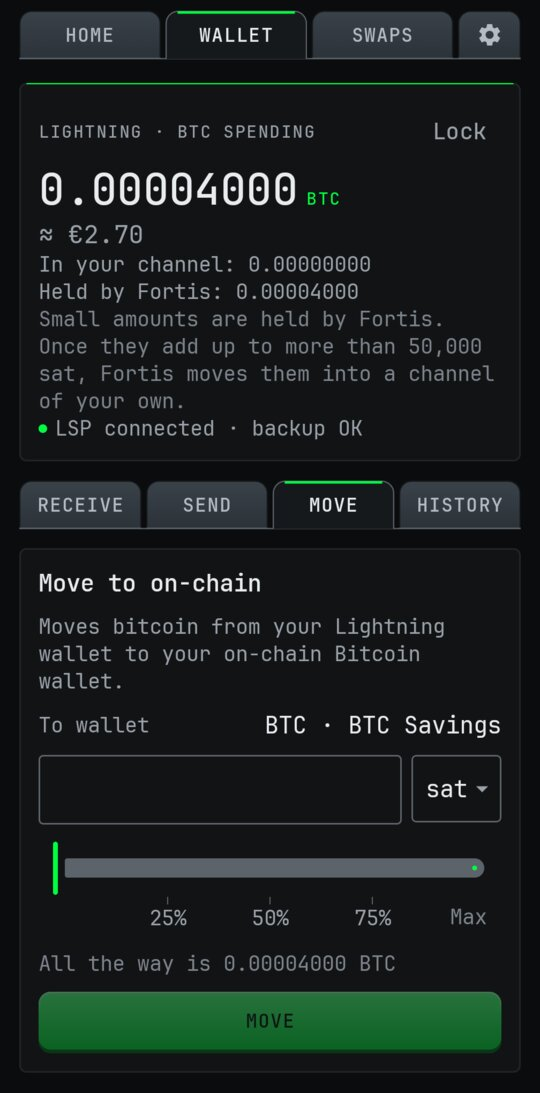
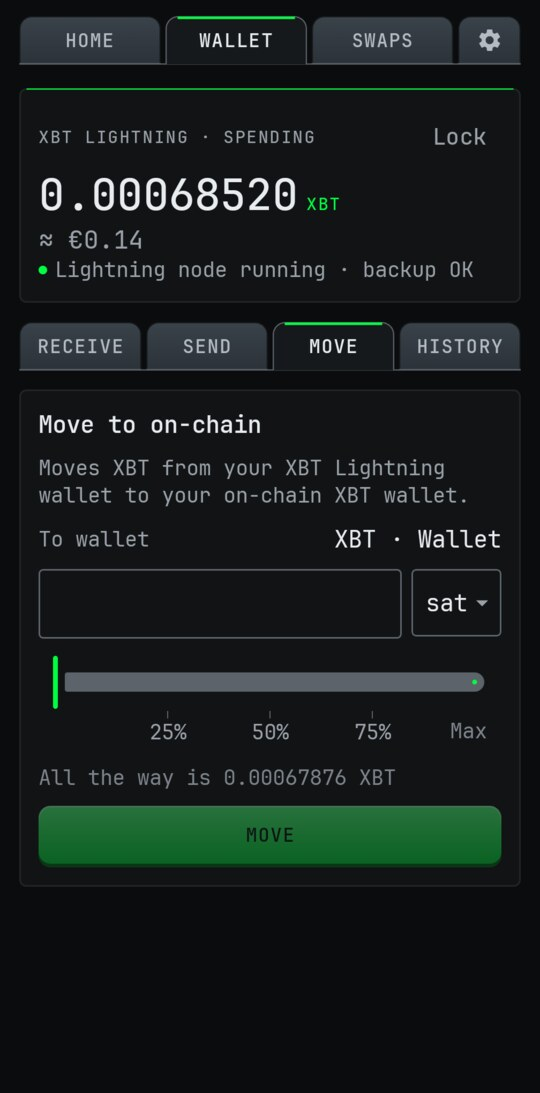
site: XBT Lightning copy and new screenshots

diff --git a/site/index.html b/site/index.html
@@ -6,7 +6,7 @@
 <title>Fortis Tech Labs — tools for Bitcoin self-custody</title>
 <meta name="description" content="Fortis Tech Labs builds self-custody software for Bitcoin. Our first app is Fortis Wallet, for Bitcoin XBT, Bitcoin BTC and Lightning.">
 <meta property="og:title" content="Fortis Wallet — non-custodial Bitcoin XBT and BTC">
-<meta property="og:description" content="A wallet for Bitcoin XBT, BTC and Lightning, with your keys on your phone, locked with your fingerprint. Swap BTC ↔ XBT person to person. Android, open source.">
+<meta property="og:description" content="A wallet for Bitcoin XBT, BTC and Lightning on both chains, with your keys on your phone, locked with your fingerprint. Swap BTC ↔ XBT person to person. Android, open source.">
 <meta property="og:type" content="website">
 <meta property="og:url" content="https://fortistechlabs.com/">
 <meta property="og:image" content="https://fortistechlabs.com/og-wallet-2026-10.png">
@@ -15,7 +15,7 @@
 <meta property="og:image:alt" content="fortis: non-custodial wallet for Bitcoin XBT and BTC, locked with your fingerprint">
 <meta name="twitter:card" content="summary_large_image">
 <meta name="twitter:title" content="Fortis Wallet — non-custodial Bitcoin XBT and BTC">
-<meta name="twitter:description" content="A wallet for Bitcoin XBT, BTC and Lightning, with your keys on your phone, locked with your fingerprint. Swap BTC ↔ XBT person to person. Android, open source.">
+<meta name="twitter:description" content="A wallet for Bitcoin XBT, BTC and Lightning on both chains, with your keys on your phone, locked with your fingerprint. Swap BTC ↔ XBT person to person. Android, open source.">
 <meta name="twitter:image" content="https://fortistechlabs.com/og-wallet-2026-10.png">
 <meta name="twitter:image:alt" content="fortis: non-custodial wallet for Bitcoin XBT and BTC, locked with your fingerprint">
 <link rel="icon" href="/icon.svg">
@@ -54,7 +54,7 @@
       <div>
         <h3>Fortis Wallet</h3>
         <p class="kicker">Android 8+ · direct download &amp; Obtainium</p>
-        <p class="dim">A mobile wallet for Bitcoin XBT, Bitcoin BTC and Lightning, locked with your fingerprint. Your recovery phrase is generated on your phone, encrypted there, and never leaves it.</p>
+        <p class="dim">A mobile wallet for Bitcoin XBT, Bitcoin BTC and Lightning on both chains, locked with your fingerprint. Your recovery phrase is generated on your phone, encrypted there, and never leaves it.</p>
         <ul>
           <li><strong>Locked with your fingerprint</strong> (or face, or device PIN): the key that opens the app is held in your phone's secure hardware and is released only when you unlock — one unlock opens every wallet</li>
           <li><strong>Locks itself</strong> a minute after you leave it, and clears your keys from memory; swaps carry on in the background</li>
@@ -66,7 +66,7 @@
           <li>Send &amp; receive with QR codes, a built-in camera scanner, or paste</li>
           <li>Fee presets or a custom sat/vB rate; "take the fees out of this amount"; sweep a whole balance</li>
           <li>History with a tap-through to a block explorer; approximate value in USD, EUR or 28 other currencies</li>
-          <li><strong>Lightning</strong> as a wallet of its own (<a href="/lightning">how it works</a>): pay invoices, Lightning addresses, LNURL and BOLT12; get paid while the app is closed; move sats on-chain ⇄ Lightning; a history that itemises every fee</li>
+          <li><strong>Lightning</strong> for both coins, each as a wallet of its own: <strong>BTC Lightning</strong> and <strong>XBT Lightning</strong> (<a href="/lightning">how it works</a>). Pay invoices, Lightning addresses, LNURL and BOLT12; get paid while the app is closed; move sats on-chain ⇄ Lightning; a history that itemises every fee</li>
           <li><strong>Help &amp; support</strong> in Settings, and a <em>Send to support</em> button on every error</li>
           <li>Swap BTC ↔ XBT with other people — atomic and non-custodial (<a href="/swaps">how swaps work</a>)</li>
           <li>A 1% fee (min 400&nbsp;sat) funds the backend — added as a transaction output, shown before you sign</li>
@@ -104,10 +104,10 @@
         </details>
       </div>
       <div class="shots">
-        <img src="/img/android-home.jpg" alt="Fortis Wallet home: BTC, Lightning and XBT wallets" loading="lazy" width="540" height="1093">
-        <img src="/img/android-receive.jpg" alt="Lightning wallet: receive with an invoice QR code" loading="lazy" width="540" height="1093">
-        <img src="/img/android-history.jpg" alt="Lightning wallet: ledger history with the balance after each entry" loading="lazy" width="540" height="1093">
-        <img src="/img/android-move.jpg" alt="Lightning wallet: move to an on-chain BTC wallet" loading="lazy" width="540" height="1093">
+        <img src="/img/android-home.jpg" alt="Fortis Wallet home: an XBT Lightning wallet and an on-chain XBT wallet" loading="lazy" width="540" height="1093">
+        <img src="/img/android-receive.jpg" alt="XBT Lightning wallet: receive with an invoice, or a reusable BOLT12 address" loading="lazy" width="540" height="1093">
+        <img src="/img/android-history.jpg" alt="XBT Lightning wallet: ledger history with the balance after each entry" loading="lazy" width="540" height="1093">
+        <img src="/img/android-move.jpg" alt="XBT Lightning wallet: move to an on-chain XBT wallet" loading="lazy" width="540" height="1093">
       </div>
     </div>
 
@@ -166,7 +166,7 @@
       </div>
       <div class="feature">
         <h3>Lightning you can reconcile</h3>
-        <p>Your Lightning node runs on your phone, with keys from a phrase that never leaves it. The history is a ledger: every payment, move and fee (network, transfer, routing), with the balance after each, so every sat adds up. <a href="/lightning">How Lightning works →</a></p>
+        <p>Your Lightning node runs on your phone, with keys from a phrase that never leaves it. The history is a ledger: every payment, move and fee (network, transfer, routing), with the balance after each, so every sat adds up. It works on both chains: BTC Lightning, and XBT Lightning, which is new and still in beta. <a href="/lightning">How Lightning works →</a></p>
       </div>
       <div class="feature">
         <h3>Made for Bitcoin XBT</h3>

diff --git a/site/lightning.html b/site/lightning.html
@@ -33,14 +33,14 @@
   <div class="wrap">
     <div class="eyebrow">Fortis Wallet · Lightning (beta) · Android</div>
     <h1>Instant Bitcoin payments, keys on your phone</h1>
-    <p>Send and receive Bitcoin in seconds over the Lightning Network. Your phone runs its own Lightning node, with keys derived from a recovery phrase that never leaves it. Fortis opens the channel and relays payments, but can't spend what's in your channel.</p>
+    <p>Send and receive Bitcoin (BTC) and Bitcoin XBT in seconds over the Lightning Network. Your phone runs its own Lightning node, with keys derived from a recovery phrase that never leaves it. Fortis opens the channel and relays payments, but can't spend what's in your channel.</p>
   </div>
 </header>
 
 <section>
   <div class="wrap">
     <h2>How it works</h2>
-    <p class="lead">Lightning is a wallet of its own. On Home, tap <strong>Add wallet → Lightning</strong>. It gets its own recovery phrase, separate from your BTC wallets, so your on-chain coins and your Lightning channel never share keys.</p>
+    <p class="lead">Lightning is a wallet of its own, one for each coin: <strong>BTC Lightning</strong> and <strong>XBT Lightning</strong>. On Home, tap <strong>Add wallet → Lightning</strong> and choose BTC or XBT. You can have one of each. Every Lightning wallet gets its own recovery phrase, separate from your on-chain wallets and from the other Lightning wallet, so your coins and your channels never share keys.</p>
 
     <dl class="facts">
       <div>
@@ -79,6 +79,32 @@
   </div>
 </section>
 
+<section id="xbt">
+  <div class="wrap">
+    <h2>XBT Lightning</h2>
+    <p class="lead">Lightning for Bitcoin XBT works the same way as BTC Lightning, on its own network. It is new, and the XBT Lightning network is still small.</p>
+    <dl class="facts">
+      <div>
+        <dt>Separate from BTC</dt>
+        <dd>XBT Lightning has its own node key, its own backup and its own channel with the Fortis XBT provider. A BTC Lightning invoice or offer can't be paid from it, and the app says so instead of sending anything.</dd>
+      </div>
+      <div>
+        <dt>Funding it takes a few blocks</dt>
+        <dd>Move XBT in from an on-chain wallet with the <strong>Move</strong> tab, or receive over Lightning. Opening a channel needs several block confirmations, which on XBT can take an hour or more. The wallet shows what it is waiting for, for example "Channel opening: waiting for confirmation 2 of 6". Your coins are yours throughout, and if a channel's opening transaction never reaches the network the app notices, cancels it and returns your funds to your on-chain wallet.</dd>
+      </div>
+      <div>
+        <dt>What it costs and how much</dt>
+        <dd>The provider currently opens a channel for you for 1% of the payment (minimum 1,000&nbsp;sat), for payments from 51,000 up to 250,000&nbsp;sat. As on BTC, smaller payments are held by Fortis on your balance (up to 50,000&nbsp;sat each) until they are worth a channel of your own.</dd>
+      </div>
+      <div>
+        <dt>Paying people</dt>
+        <dd>You can pay XBT invoices and LNURL-pay codes, and BOLT&nbsp;12 offers and Lightning addresses where the person or service you pay supports XBT. An address that hands out BTC invoices is refused, safely.</dd>
+      </div>
+    </dl>
+    <p class="warn" style="font-size:14px; margin-top:26px">XBT Lightning is early. Moving funds in, opening a channel and paying invoices and LNURL codes from it are tested and work; BOLT&nbsp;12 offers are not yet. Fewer nodes and services support XBT, so fewer people can pay you than on BTC Lightning. Start with small amounts.</p>
+  </div>
+</section>
+
 <section id="fortis-balance">
   <div class="wrap">
     <h2>The Fortis balance: what we hold for you</h2>
@@ -111,7 +137,7 @@
         <dd>The LSP sees your node's ID and the payments that pass through it. The <a href="/privacy">privacy policy</a> lists everything it sees and stores.</dd>
       </div>
     </dl>
-    <p class="warn" style="font-size:14px; margin-top:26px">Lightning is in beta: a payment that opens your channel can be up to 100,000&nbsp;sat, and a channel you fund yourself up to 1,000,000&nbsp;sat. Start with small amounts.</p>
+    <p class="warn" style="font-size:14px; margin-top:26px">Lightning is in beta: on BTC a payment that opens your channel can be up to 100,000&nbsp;sat, and a channel you fund yourself up to 1,000,000&nbsp;sat. XBT Lightning has its own, smaller limits (above). Start with small amounts.</p>
   </div>
 </section>
 
